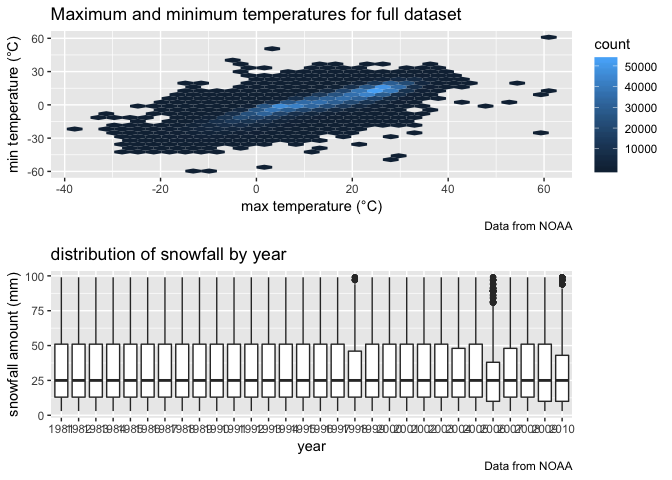
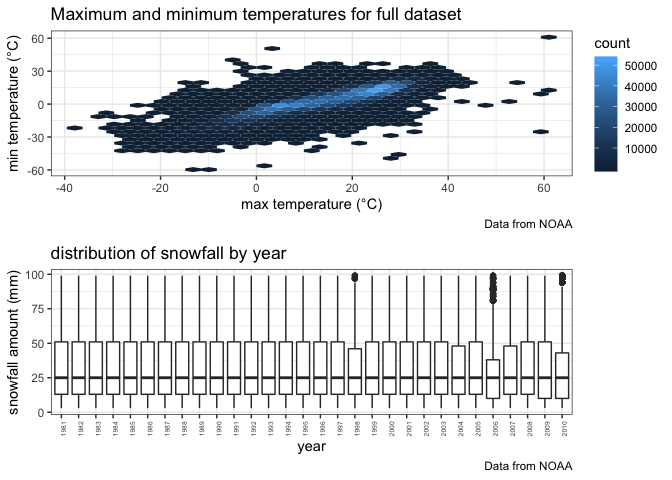
Final edits!

diff --git a/p8105_hw3_tj2383.md b/p8105_hw3_tj2383.md
@@ -246,10 +246,11 @@ instacart_data %>%
      y = "number of items ordered"
     ) +
     theme_bw() +
-    theme(legend.position = "bottom")
+    theme(legend.position = "bottom") +
+  theme(axis.text.x = element_text(angle = 90, size = 5))
 ```
 
-![](p8105_hw3_tj2383_files/figure-markdown_github/unnamed-chunk-8-1.png) This plot is able to easily shows us which aisles the most number of orders are coming from. The largest peak is for fresh vegetables fresh fruits, so we know that the most orders come from this aisle.
+![](p8105_hw3_tj2383_files/figure-markdown_github/unnamed-chunk-8-1.png) This plot is able to easily shows us which aisles the most number of orders are coming from. The largest peaks are for fresh vegetables and fresh fruits, so we know that the most orders come from these aisles.
 
 In the following code chunk I create a table of the most popular item in the aisles `baking ingredients`, `dog food care`, and `packaged vegetables and fruits`.
 
@@ -453,7 +454,8 @@ t_max_min_plot = ny_noaa_data %>%
       y = "min temperature (°C)",
       title = "Maximum and minimum temperatures for full dataset",
       caption = "Data from NOAA"
-    )
+    ) + 
+  theme_bw()
 
 snowfall_plot = ny_noaa_data %>% 
   filter(snow != "NA" & snow > 0 & snow < 100) %>% 
@@ -464,7 +466,9 @@ snowfall_plot = ny_noaa_data %>%
       y = "snowfall amount (mm)",
       title = "distribution of snowfall by year",
       caption = "Data from NOAA"
-    )
+    ) + 
+  theme_bw() +
+  theme(axis.text.x = element_text(angle = 90, size = 5))
 
 t_max_min_plot / snowfall_plot
 ```
